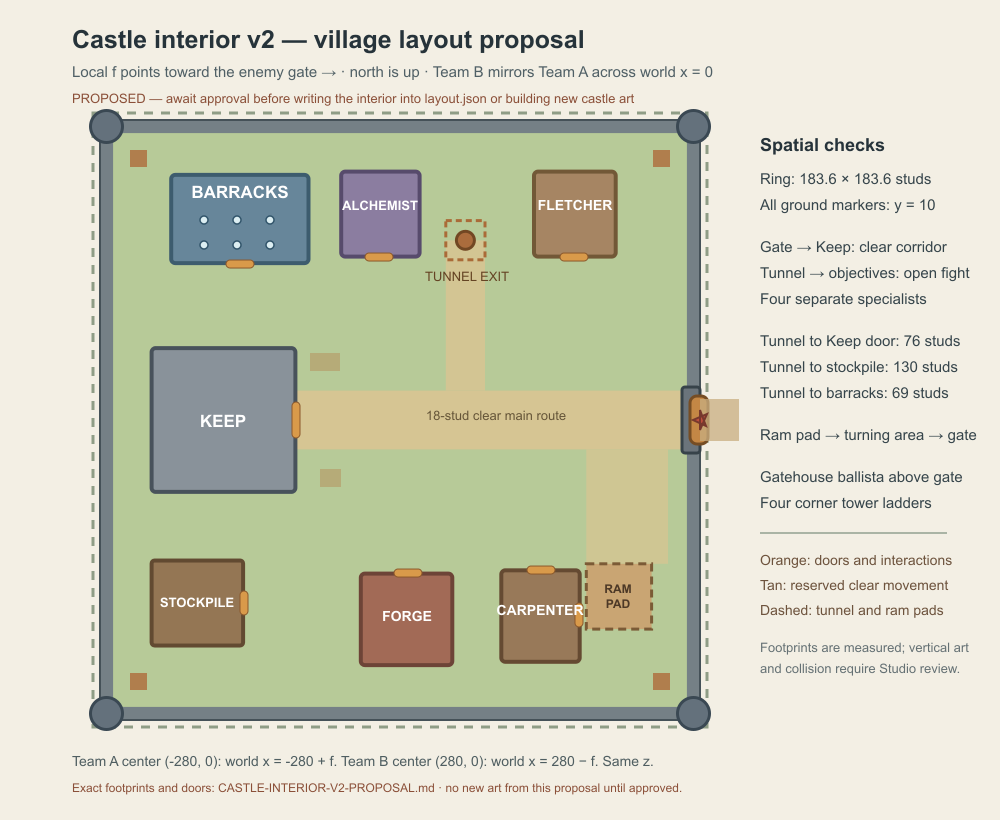
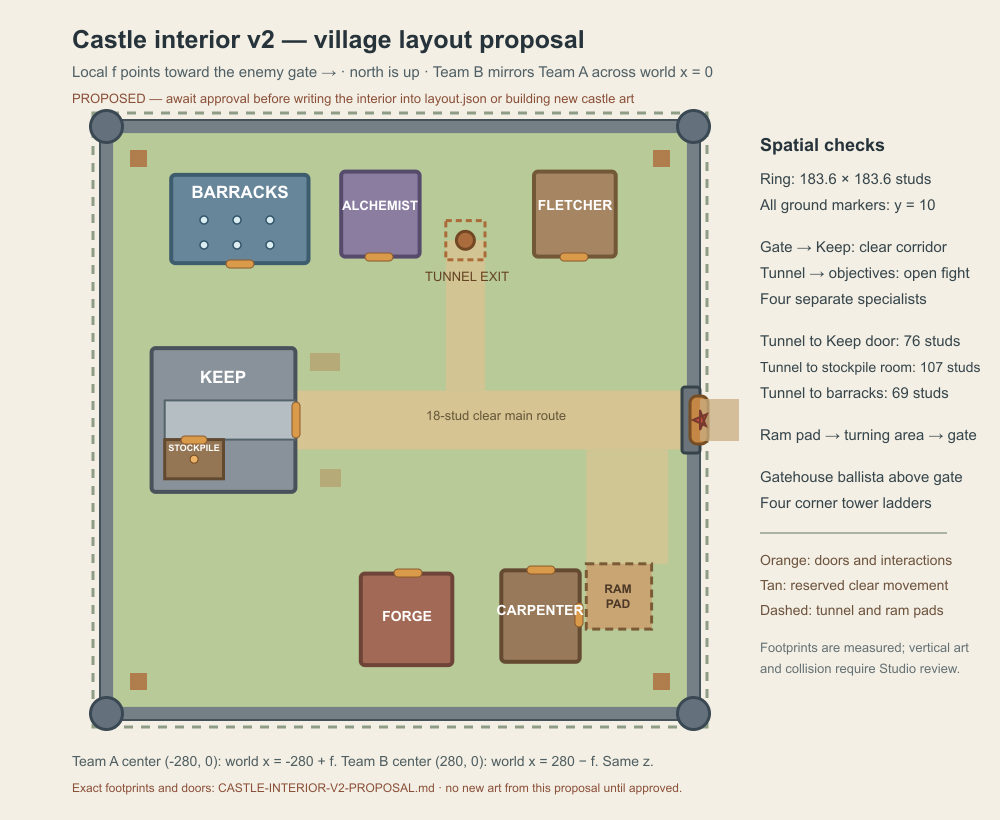
Move proposed stockpile inside keep

Changed region(s): [[0.155, 0.4573, 0.31, 0.6098], [0.124, 0.6707, 0.248, 0.7927], [0.775, 0.4268, 0.992, 0.4573]]

diff --git a/CASTLE-INTERIOR-V2-PROPOSAL.md b/CASTLE-INTERIOR-V2-PROPOSAL.md
@@ -16,13 +16,15 @@ Use local `(f, z)` ground coordinates from each castle center. `f` increases tow
 
 | Named piece | Local footprint `(f, z)` | Door / interaction point `(f, z)` | Placement reason |
 |---|---|---|---|
-| Keep | `-76..-32; -22..22` (44 × 44) | front door `(-32, 0)`, target clear opening 10 studs | Rear-center, visible from the gate along the open courtyard. It is a damageable win target, separate from the stockpile. |
-| Stockpile storehouse | `-76..-48; 43..69` (28 × 26) | courtyard door `(-48, 56)`, target opening 8 | Rear-south. Both friendly deposits and enemy looting happen here. No storage room inside the Keep. |
+| Keep | `-76..-32; -22..22` (44 × 44) | front door `(-32, 0)`, target clear opening 10 studs | Rear-center, visible from the gate along the open courtyard. It is the damageable win target and contains the team stockpile room. |
+| Stockpile room inside Keep | `-72..-54; 6..18` (18 × 12), within the Keep footprint | interior door `(-63, 6)`, target opening 8 studs; deposit and loot interaction `(-63, 12)` | A distinct room reached from the Keep entrance hall. There is no separate courtyard storehouse. A raider can reach and loot it via the tunnel without a gate or wall breach. |
 | Barracks | `-70..-28; -75..-48` (42 × 27) | courtyard door `(-49, -48)`, target opening 10 | Rear-north team spawn, away from the tunnel exit. No AI troop spawns. |
 | Blacksmith forge | `-12..16; 47..75` (28 × 28) | north/courtyard door `(2, 47)`, target opening 8 | South-middle working building, reachable from the gate and stockpile; replaces the old shared workshop. |
 | Alchemist | `-18..6; -76..-50` (24 × 26) | south/courtyard door `(-6, -50)`, target opening 8 | North-middle, with a lane behind the Keep and room before the tunnel landing. |
 | Fletcher | `41..66; -76..-50` (25 × 26) | south/courtyard door `(53.5, -50)`, target opening 8 | North-forward, convenient for the gatehouse and wall defenders without blocking the tunnel exit. |
 | Carpenter | `31..55; 46..74` (24 × 28) | north player door `(43, 46)`, target opening 8; forward ram opening `(55, 60)`, target 12 | South-forward, beside the ram assembly pad and its clear route to the gate. |
+
+The Keep has an unobstructed ground-level entrance hall at `f = -72..-32; z = -6..6`, connecting its front door to the stockpile room's interior door. The stockpile interaction sits inside that room; no special gate or wall breach condition is added to looting. The remaining former storehouse area at `f = -76..-48; z = 43..69` is open courtyard, with no replacement building or permanent prop in this proposal.
 
 The specialist buildings are distinct small village-like structures around open courtyard paths. They are crafting-only in v1; no old rank, trading, theft, or negotiation stations. The blacksmith may have a forge chimney and the carpenter a broad ram opening, but exact furnishing and roof art are not layout decisions. Roof massing targets for the first visual pass: specialist eaves about 9–11 studs above the pad and peaks about 15–18; barracks peak about 18–21; the Keep remains the dominant interior silhouette. These are art placeholders to inspect beside a 5-stud avatar, not approved final mesh heights.
 
@@ -31,21 +33,21 @@ The specialist buildings are distinct small village-like structures around open 
 - **Main gate-to-Keep route:** reserve `z = -9..9` from the inside of the gate at `f = 87.8` to the Keep door at `f = -32`; 18 studs clear of all props and collision. This is the main fight and ram approach lane. The existing 10-stud gate arch is the narrowest passage; the ram body must fit it, or the gate asset must be widened before export.
 - **Tunnel landing and egress:** reserve `f = 14..26; z = -61..-49` around the exit `(20,-55)`, and a 12-stud clear egress strip `f = 14..26; z = -49..-9` to the courtyard. No building, barricade, tree, or decorative prop in this strip. The exit remains exposed to defenders and is not beside either objective.
 - **Ram assembly and turning:** reserve a 20 × 20 pad `f = 57..77; z = 44..64`, adjacent to the carpenter's forward opening. Reserve `f = 57..82; z = 9..44` as a clear turning area into the main corridor. No prop or parked siege tool may permanently block the route. The ram's actual width, turning radius, and collision still require an avatar-scale Studio test.
-- **Access behind the Keep:** keep a north passage between the Keep and barracks, and a south passage between the Keep and stockpile. Keep the `f = -30..-18` strip open beside the Keep's front corners so players can reach both rear buildings from the main courtyard. The minimum rear building-to-wall strip is 11.8 studs; reserve it for foot traffic and repair access.
+- **Access around the Keep:** keep a north passage between the Keep and barracks and an open south rear courtyard where the separate storehouse was proposed. Keep the `f = -30..-18` strip open beside the Keep's front corners so players can circulate around it from the main courtyard. The minimum rear building-to-wall strip is 11.8 studs; reserve it for foot traffic and repair access.
 - **Tower access:** reserve ladder or stair markers near `(-80,-80)`, `(-80,80)`, `(80,-80)`, and `(80,80)`. Defenders must be able to reach a fighting deck on each corner tower. The final ladder meshes must preserve the perimeter strip.
 - **Gatehouse ballista:** reserve one fixed mount at `(91.8,0)` on the gatehouse roof and an inside ladder or stair near `(79,-23)`. The mount faces the central road. This is a location reservation, not an answer to operator, ammunition, arc, HP, or reload rules.
 - **Barracks preview spawns:** place six provisional ground markers at `(-60,-66)`, `(-50,-66)`, `(-40,-66)`, `(-60,-57)`, `(-50,-57)`, and `(-40,-57)`, mirrored for Team B. These are spatial test points, not a final 6v6 team-size decision. Remove `temporary_preview_spawns` when this interior is migrated into `layout.json`.
 
 ## Geometric check
 
-- All proposed footprints fit inside the inner wall face. The smallest building-to-wall gap is **11.8 studs**; the ram pad leaves **10.8 studs** toward the front wall. The carpenter and ram pad intentionally sit **2 studs** apart at their adjacent edges; all other building pairs are separated by at least 10 studs.
+- All exterior building footprints fit inside the inner wall face; the stockpile room fits inside the Keep with a 4-stud minimum setback from its outer footprint. The smallest building-to-wall gap is **11.8 studs**; the ram pad leaves **10.8 studs** toward the front wall. The carpenter and ram pad intentionally sit **2 studs** apart at their adjacent edges; all other exterior building pairs are separated by at least 10 studs.
 - No building crosses the 18-stud main corridor, the 12-stud tunnel egress strip, the 20 × 20 ram pad, or the ram turning area. The tunnel landing lies between the alchemist and fletcher, with an unobstructed route south into the courtyard.
-- Straight-line distances from the tunnel exit to access points are about **76 studs to the Keep**, **130 to the stockpile**, and **69 to the barracks**. Walking routes cannot be shorter. A tunnel raider still crosses defended courtyard space to reach the Keep or stockpile.
-- This is a 2D footprint check, not a collision or sightline test. In Studio, verify a 5-stud avatar can enter each door, leave every spawn, reach each tower deck, and move a ram from its pad through the gate; view the Keep, stockpile, and tunnel exit from attacker and defender cameras.
+- Straight-line distances from the tunnel exit are about **76 studs to the Keep's front door**, **107 studs to the stockpile interaction**, and **69 studs to the barracks door**. The stockpile route must go through the Keep entrance and interior room door, so its actual walk is longer than 107 studs. A tunnel raider still crosses defended courtyard space and enters the Keep to loot.
+- This is a 2D footprint check, not a collision or sightline test. In Studio, verify a 5-stud avatar can enter each exterior door and the stockpile room, leave every spawn, reach each tower deck, and move a ram from its pad through the gate; view the Keep, stockpile room, and tunnel exit from attacker and defender cameras.
 
 ## On approval
 
-1. Add these proposed local footprints, doors, spawns, pads, clear routes, tower access, and ballista mount to both castles' `interior` entries in `layout.json`, applying the exact mirror transform. Keep the existing exterior and tunnel endpoints.
+1. Add these proposed local footprints, the Keep's internal stockpile room and access hall, doors, spawns, pads, clear routes, tower access, and ballista mount to both castles' `interior` entries in `layout.json`, applying the exact mirror transform. Keep the existing exterior and tunnel endpoints.
 2. Update any generator or validator that creates or reads castle interior data. The old Blender `assets/castle/build_castle.py` expects `keep`, `workshop`, `King_Storage`, and cannons from the superseded v1.1 layout; it is not a source for the new geometry and must be revised before using it for this interior.
 3. Build one named asset or group at a time under `AGENTS.md`'s Blender screenshot contract. Test the full gray footprint layout and one art piece in Studio before finishing/exporting the castle set.
 

diff --git a/DESIGN.md b/DESIGN.md
@@ -52,7 +52,7 @@ Two-team medieval siege on one static island. Red and Blue defend mirrored, pre-
 
 - **Decided:** each castle has one mirrored wall ring with individually identified wall sections, four corner towers, one gate with a separate door, one team stockpile, and a damageable Keep. Banners recolor for Red and Blue. `layout.json` v2.0 holds the approved exterior: 183.6 × 183.6 ring, 35 wall sections, centers at `x = ±280`, and facing gates at `x = ±188.2`. Its `interior` fields remain `null` pending approval of `CASTLE-INTERIOR-V2-PROPOSAL.md`. The old 140 × 140 free-for-all ring remains obsolete.
 - **Decided:** defenders can stand on tower tops via stairs or ladders. Gate, wall sections, towers, and Keep have independent HP and intact, damaged, and rubble looks. Repairable structures consume team resources and show timber scaffolding. Keep HP, whether it can be repaired, and exact damage thresholds are **open**; its destruction ends the match.
-- **Decided 2026-10-01:** the first playable siege includes a pre-built barracks and four crafting-only specialists in separate village-like buildings: blacksmith, fletcher, carpenter, and alchemist. The blacksmith's dedicated forge replaces the shared workshop in the earlier interior proposal; it smelts ore and crafts finished weapons, including crossbows. The fletcher handles ranged ammunition and components such as bolts, bowstrings, and quivers. The carpenter handles timber work and siege equipment; the alchemist handles consumables. These are role boundaries, not approved item lists or recipes. Ranks, specialist theft, negotiation, and Minecraft-style trading are not part of v1. The barracks' minimum function is team respawn with a courtyard exit; it adds no AI troop regiment. Exact outputs, recipes, costs, crafting time, and interface are **open**. The stockpile is its own part inside the walls, not a room inside the Keep. Mason, cook, and weaver are later ideas in IDEAS.md, outside v1.
+- **Decided 2026-10-01:** the first playable siege includes a pre-built barracks and four crafting-only specialists in separate village-like buildings: blacksmith, fletcher, carpenter, and alchemist. The blacksmith's dedicated forge replaces the shared workshop in the earlier interior proposal; it smelts ore and crafts finished weapons, including crossbows. The fletcher handles ranged ammunition and components such as bolts, bowstrings, and quivers. The carpenter handles timber work and siege equipment; the alchemist handles consumables. These are role boundaries, not approved item lists or recipes. Ranks, specialist theft, negotiation, and Minecraft-style trading are not part of v1. The barracks' minimum function is team respawn with a courtyard exit; it adds no AI troop regiment. Exact outputs, recipes, costs, crafting time, and interface are **open**. The team stockpile is a distinct room inside the Keep, with deposit and loot interactions there. Reaching it, including via the tunnel, is enough to attempt looting; no wall or gate breach is required. Its proposed room coordinates await approval in `CASTLE-INTERIOR-V2-PROPOSAL.md`. Mason, cook, and weaver are later ideas in IDEAS.md, outside v1.
 - **Gate route:** the widest entrance, opened by heavy player hits or a battering ram. The ram is optional, but the design target is for teams to pursue it in most matches because it opens a useful group route much more efficiently than hand tools; it is neither free at match start nor required to win. It should be among the costliest single things a team makes, yet affordable by one motivated player in about two full 20-unit gather-and-carry trips. This is an effort target, not an approved recipe or exact 40-unit price; teammate and stockpile contributions can finish it sooner. At the carpenter, ram construction is a standing team project with an ingredient goal; no single player starts or owns it. Teammates contribute toward that goal from their own carried goods, and team stockpile goods may also be allocated to it. Record each reserved unit's source: the contributing player or the team stockpile. The ram is made when all required resources have been contributed; only then are reserved resources permanently spent. The exact ingredient mix, damage, movement, shared-spending controls, and counterplay are **open**; do not assume an extra-investment damage tier beyond the completion goal.
 - **Ram refunds:** players cannot voluntarily cancel construction to use it as storage. If a game-defined event ends a ram project unfinished during the match, return stockpile-sourced units to the team stockpile. Return as many player-sourced units as fit to each original contributor's carried bag; keep their excess in an owner-only refund claim at the carpenter. Only that contributor can collect the remaining goods, in quantities that fit their current free carry space. Pending claims cannot be used directly for crafting, team spending, or another contribution, and they never increase carried capacity. Each unit may be refunded or claimed only once. Unclaimed goods clear with the normal match reset. Which events can end an unfinished project is **open**.
 - **Ram operator priority:** when the ram is completed, the teammate who donated the most personal carried goods to that ram gets the first chance to operate it. Direct personal donations count toward this priority; goods allocated from the pooled stockpile count for the team, not for whichever teammate triggered the allocation. If no personal contributor is available, another teammate may operate it; priority must not leave a completed ram unusable. The ram remains team equipment, not the contributor's property. Operator controls, ties, claim-window timing, and handoff are **open**. EXP is not required for this first playable rule.

diff --git a/AGENTS.md b/AGENTS.md
@@ -47,7 +47,7 @@ Current implemented exterior dimensions in `layout.json` v2.0 are playable area 
 
 The map is designed FROM a layout file, never the other way around. Decorative objects must not exist unless they trace to a layout entry or a rule below.
 
-1. `layout.json` is the source of truth for approved coordinates. Units are studs. Ground plane is (x, z), height is y. Its v2.0 exterior includes the enlarged castles, central road, crouch cover, and L-shaped tunnel endpoints approved in `MAP-REVISION-PROPOSAL.md`. Both castle `interior` fields are still `null`; do not use the 2026-09-30 storage-inside-Keep, cannon, or workshop placement from old files or meshes. Review `CASTLE-INTERIOR-V2-PROPOSAL.md` and obtain the user's approval before migrating its interior positions or building changed interior art. The old island export is `layout.old-island.json`, reference only.
+1. `layout.json` is the source of truth for approved coordinates. Units are studs. Ground plane is (x, z), height is y. Its v2.0 exterior includes the enlarged castles, central road, crouch cover, and L-shaped tunnel endpoints approved in `MAP-REVISION-PROPOSAL.md`. Both castle `interior` fields are still `null`; do not reuse the 2026-09-30 storage room coordinates, cannon, or workshop placement from old files or meshes. The revised proposal places the stockpile inside the Keep, but its measured room and other interior positions still require the user's approval in `CASTLE-INTERIOR-V2-PROPOSAL.md` before migration or changed interior art. The old island export is `layout.old-island.json`, reference only.
 2. The first layout proposal in `LAYOUT-PROPOSAL.md` shrank the old ring from 140 × 140 to 102 × 102; `MAP-REVISION-PROPOSAL.md` later enlarged it to the approved 183.6 × 183.6 ring now in `layout.json` v2.0. New layout changes require their own proposal and approval before terrain or castle art is rebuilt.
 3. Symmetry: mirror across the axis between the two castles. Both castles see the same map.
 4. Node variation (build after the fixed layout works): node slots come in mirrored pairs. Each match, choose which slots are active and their types on one side and mirror to the other. Terrain stays static; only node placement varies. Later option, NOT now: randomly generate one half of the terrain and mirror it.
@@ -130,7 +130,7 @@ Default budget: props at or under 1,500 triangles unless noted. Flat shading. Pe
 | Wood | Faceted round-canopy tree cluster (the only round-canopy tree) | Fine for now |
 | Wool | Fenced pasture with sheep | Fine for now |
 | Castle | Separate named Wall_Segment, Wall_Corner_Tower, Gate, Gate_Door, Stockpile, damageable Keep, and team-recolorable Banner pieces. The approved 183.6 × 183.6 ring is in `layout.json` v2.0. The gate fits a 5-stud avatar. Towers up to ~3,000 tris and wall pieces at or under 1,500, with reused meshes. | A 2026-09-30 kit exists in `assets/castle/castle_kit.fbx`; its Keep and storage follow the superseded interior. Studio import and playability are unverified. |
-| Castle interior | Barracks with team spawns; four small specialist buildings around a courtyard (blacksmith forge, fletcher, carpenter, alchemist), with the forge replacing the old shared workshop; stockpile outside the Keep; one tunnel exit per castle far from the stockpile and Keep; fixed defensive ballista; battering ram. Review `CASTLE-INTERIOR-V2-PROPOSAL.md`; migrate it into `layout.json` after user approval and before changed interior art. | Older Keep/storage, barracks, workshop, cannons, siege cannon, and scaffold meshes exist in the kit. They are not evidence that the new design is built. |
+| Castle interior | Barracks with team spawns; four small specialist buildings around a courtyard (blacksmith forge, fletcher, carpenter, alchemist), with the forge replacing the old shared workshop; a distinct stockpile room inside the Keep; one tunnel exit per castle far from the Keep entrance and stockpile interaction; fixed defensive ballista; battering ram. Review `CASTLE-INTERIOR-V2-PROPOSAL.md`; migrate it into `layout.json` after user approval and before changed interior art. | Older Keep/storage, barracks, workshop, cannons, siege cannon, and scaffold meshes exist in the kit. They are not evidence that the new design is built. |
 | Damage states | Intact, Damaged, Rubble for the gate door, wall sections, towers, and Keep; Scaffold during repair. Workshop, barracks, ballista states follow their final gameplay rules. Same footprint for swappable states. | Older states exist for walls, towers, gate door, cannon, workshop, and barracks; Keep states and ballista are missing. |
 | Terrain | Mirrored island built from layout.json; tile chunks each under 15,000 tris. Tunnel endpoints are in `layout.json` v2.0; walkable tunnel geometry still needs a terrain task. | `assets/map/map.fbx` exists and was reported imported into Studio. Tunnel geometry is absent. |
 | Later | Cart, barrel, fence, well, half-timbered houses | After playtest |

diff --git a/MAP-REVISION-PROPOSAL.md b/MAP-REVISION-PROPOSAL.md
@@ -40,7 +40,7 @@ The **long leg approaches the castle**; the **short leg ends inside its forward 
 
 The outer leg is **175 studs straight** and the inner leg **65 studs**, for a 240-stud crawl. An illustrative 5-stud/s crawl takes about **48 seconds**, versus about 15 seconds to cover the same path length at normal running speed. Speed, portal elevation, tunnel width, and collision height are placeholders to verify with the actual Roblox crawl controller. Start with roughly 6 studs of width and 3.5 studs of clear height. No ram fits. Only one traveler may be in each tunnel at a time; there is no passing or combat while crawling. The straight outer leg and short inner leg create firing lanes for campers; the bend prevents a single shot down the entire tunnel. Keep the tunnel free of interior cover so its risk remains legible.
 
-The exit is near the north/front quadrant of each courtyard, not next to either objective. Reserve the rear half of each enlarged castle for the Keep and separate stockpile, and keep their eventual entry points at least 60 studs of traversable courtyard route from the tunnel exit. `CASTLE-INTERIOR-V2-PROPOSAL.md` now gives measured Keep, stockpile, barracks, specialist, spawn, tower-access, and ballista positions, pending the user's approval. The 2026-09-30 interior is absent from `layout.json` v2.0; do not reuse old storage-inside-Keep or cannon mounts.
+The exit is near the north/front quadrant of each courtyard, not next to either objective. Reserve the rear half of each enlarged castle for the Keep, with a distinct stockpile room inside it, and keep the Keep entrance at least 60 studs of traversable courtyard route from the tunnel exit. `CASTLE-INTERIOR-V2-PROPOSAL.md` now gives measured Keep, internal stockpile room, barracks, specialist, spawn, tower-access, and ballista positions, pending the user's approval. The 2026-09-30 interior is absent from `layout.json` v2.0; do not reuse its old storage-room coordinates or cannon mounts.
 
 ## Preliminary geometry audit
 
